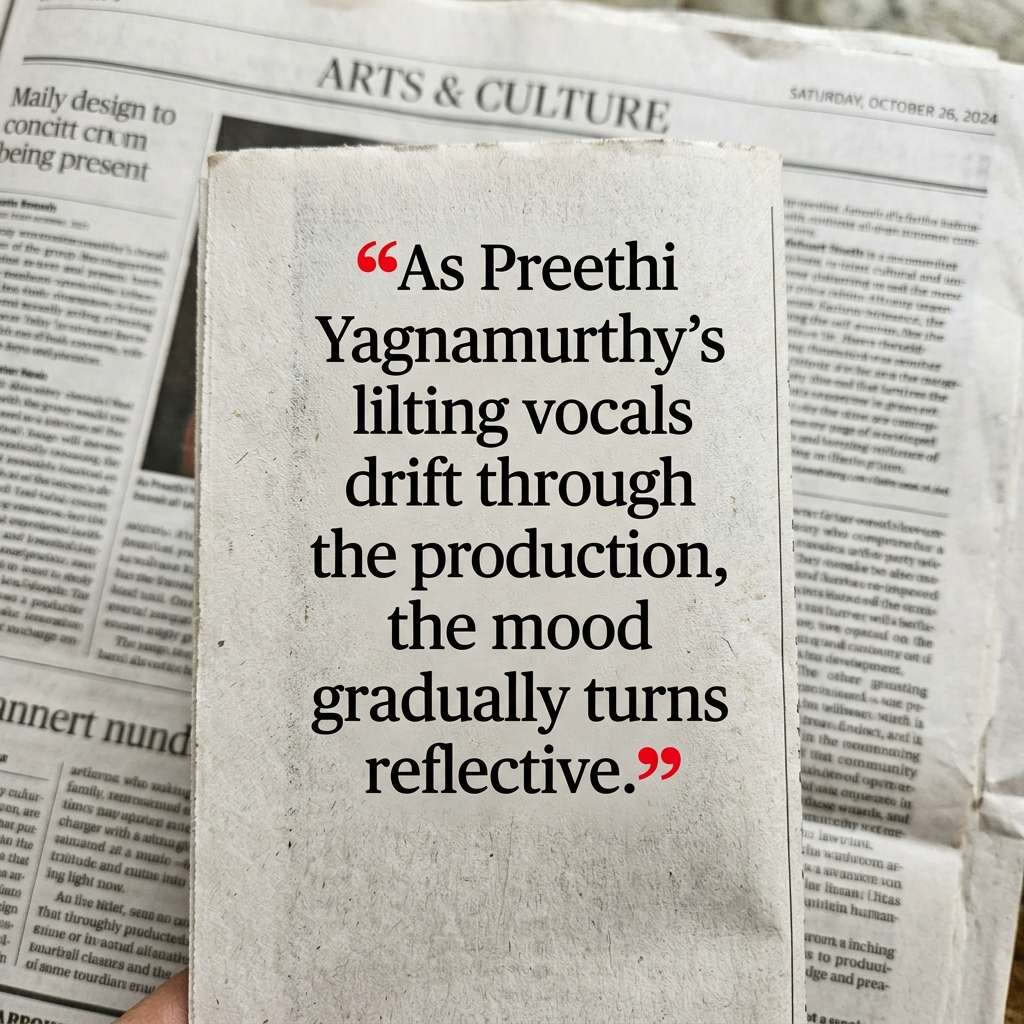
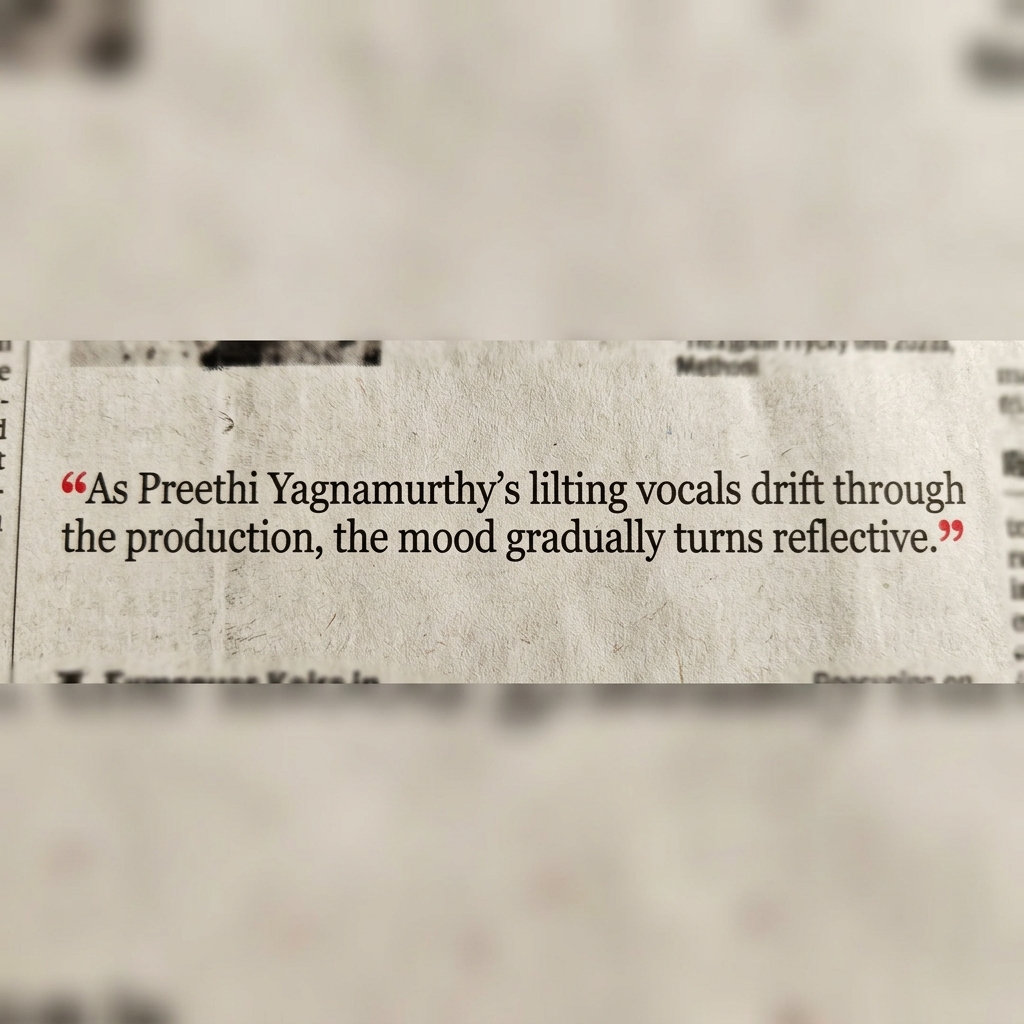
Update TOI image size and remove duplicate text description

diff --git a/docs/assets/js/site.js b/docs/assets/js/site.js
@@ -256,10 +256,10 @@
                     <h3>${item.title}</h3>
                     ${
                       item.imagePath
-                        ? `<img src="${item.imagePath}" alt="${item.title}" style="max-width: 100%; height: auto; margin-top: 1rem; border-radius: 4px;" loading="lazy">`
+                        ? `<img src="${item.imagePath}" alt="${item.title}" style="${item.imageStyle || 'max-width: 100%; height: auto; margin-top: 1rem; border-radius: 4px;'}" loading="lazy">`
                         : ""
                     }
-                    <p class="highlight-carousel-card__desc">${item.description}</p>
+                    ${item.description ? `<p class="highlight-carousel-card__desc">${item.description}</p>` : ""}
                     ${renderHighlightActions(
                       item,
                       "highlight-carousel-card__link",

diff --git a/docs/assets/js/site-data.js b/docs/assets/js/site-data.js
@@ -95,8 +95,9 @@ window.SITE_DATA = {
     {
       year: "Recent",
       title: "Published in Times of India",
-      description: "As Preethi Yagnamurthy’s lilting vocals drift through the production, the mood gradually turns reflective.",
+      description: "",
       imagePath: "assets/media/toi-clipping.png",
+      imageStyle: "width: 8in; height: 2in; object-fit: cover; margin-top: 1rem; border-radius: 4px;",
       url: "https://timesofindia.indiatimes.com/salar-jung-iii-the-man-who-collected-the-world-theatre-review-a-moving-ode-to-hyderabads-greatest-collector-of-artefacts/articleshow/131772001.cms",
       linkLabel: "Read the full article on Times Of India",
       trust: "verified-public-source",
